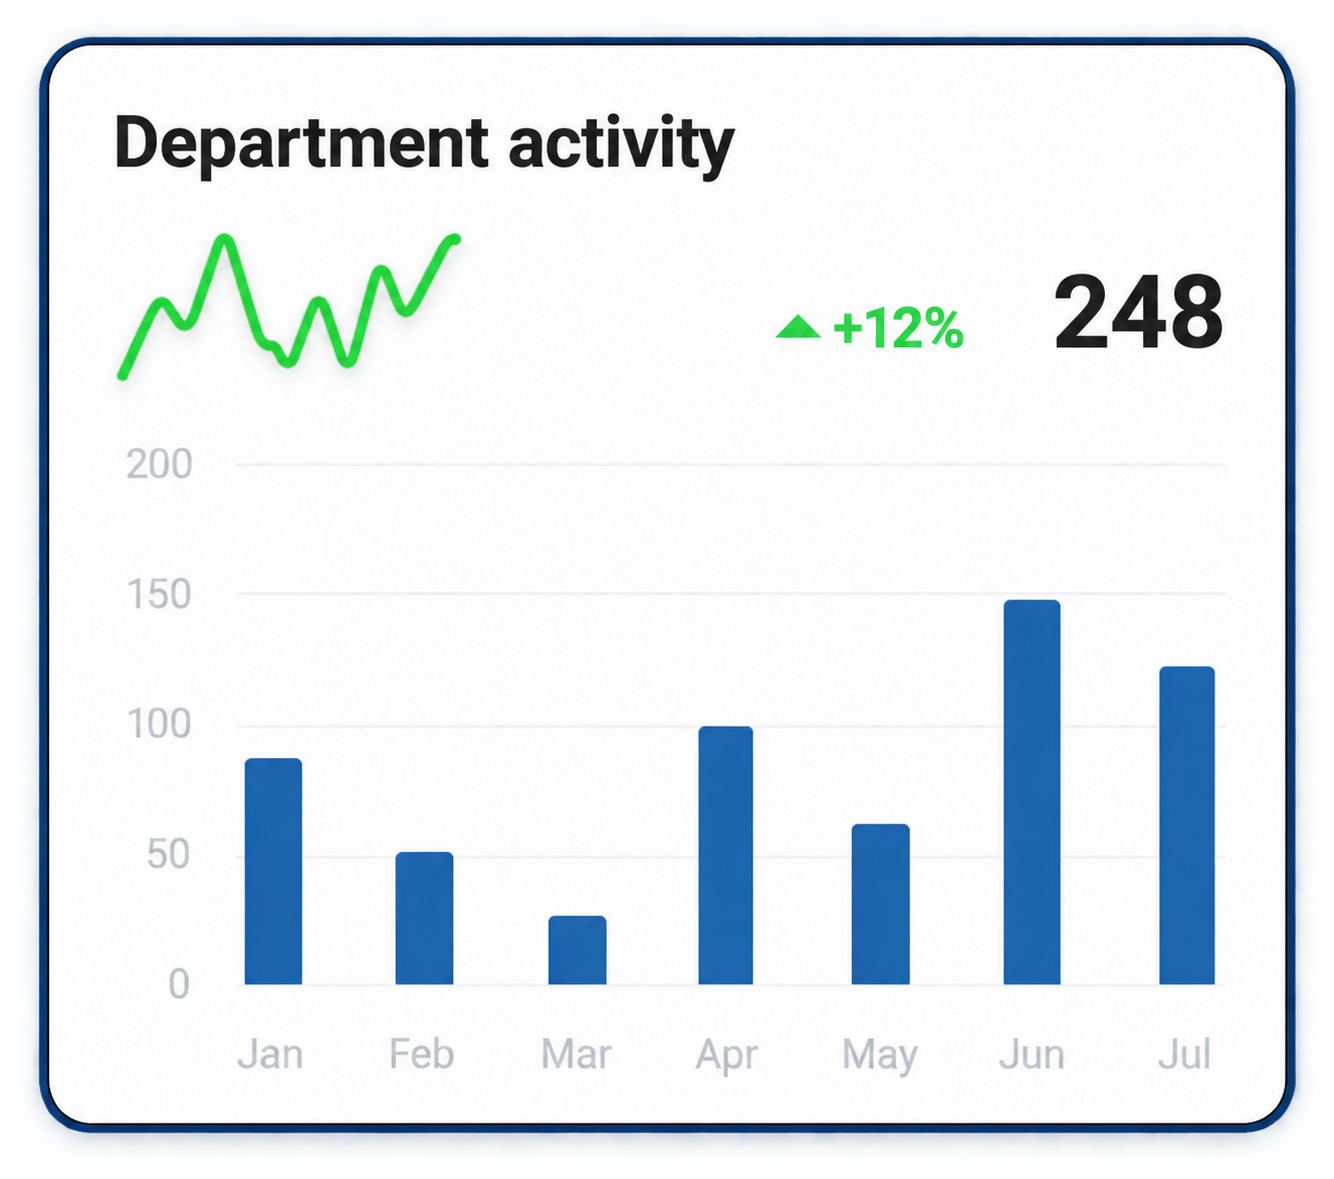
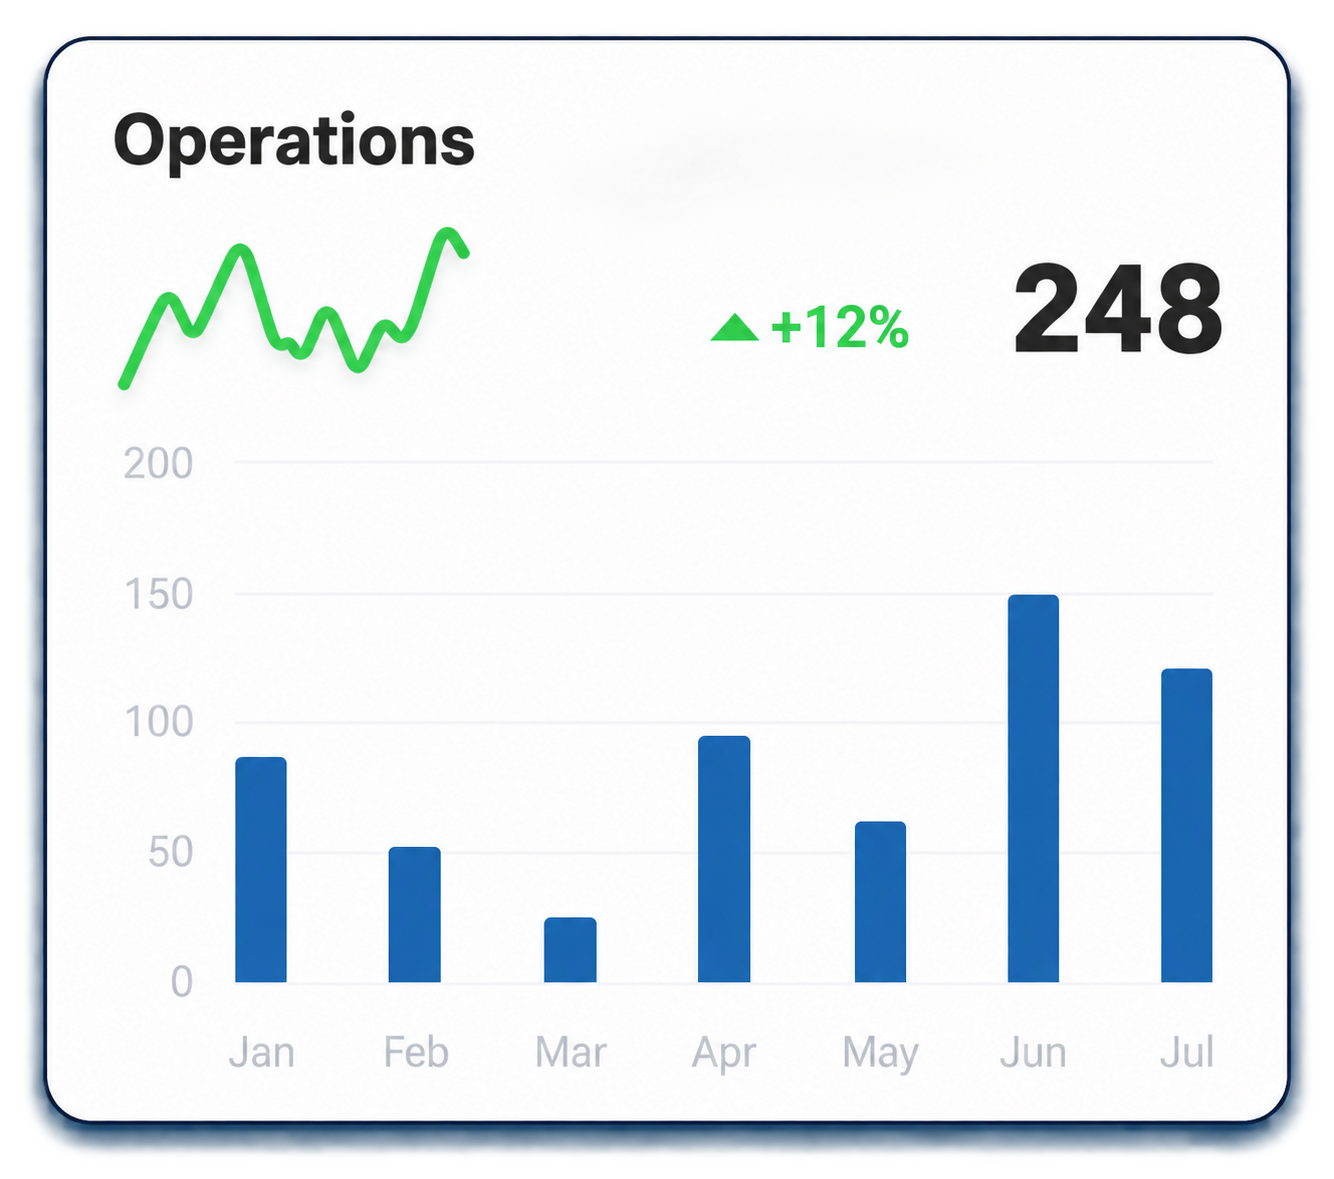
Revision

diff --git a/resources/views/new-system/auth/login.blade.php b/resources/views/new-system/auth/login.blade.php
@@ -132,19 +132,19 @@
                     description: 'Mantén la continuidad de cada módulo desde una plataforma confiable y centralizada.'
                 },
                 {
-                    image: @json(asset('images/login/erp-administracion.png')),
+                    image: @json(asset('images/login/erp-administracion.png').'?v='.filemtime(public_path('images/login/erp-administracion.png'))),
                     alt: 'Panel integral de administración empresarial',
                     title: 'Gestiona toda tu organización',
                     description: 'Centraliza empresas, usuarios, procesos y operaciones para tomar decisiones con información confiable.'
                 },
                 {
-                    image: @json(asset('images/login/erp-contabilidad.png')),
+                    image: @json(asset('images/login/erp-contabilidad.png').'?v='.filemtime(public_path('images/login/erp-contabilidad.png'))),
                     alt: 'Panel de contabilidad y control financiero',
                     title: 'Contabilidad y finanzas conectadas',
                     description: 'Controla presupuestos, cuentas, pagos y resultados financieros desde un entorno integrado.'
                 },
                 {
-                    image: @json(asset('images/login/erp-medicina.png')),
+                    image: @json(asset('images/login/erp-medicina.png').'?v='.filemtime(public_path('images/login/erp-medicina.png'))),
                     alt: 'Panel de gestión médica y hospitalaria',
                     title: 'Gestión médica integral',
                     description: 'Coordina pacientes, citas, atención clínica, laboratorio, farmacia e inventario médico.'

diff --git a/tests/Feature/ExampleTest.php b/tests/Feature/ExampleTest.php
@@ -27,6 +27,9 @@ class ExampleTest extends TestCase
             ->assertSee('Gestiona toda tu organización')
             ->assertSee('Contabilidad y finanzas conectadas')
             ->assertSee('Gestión médica integral')
+            ->assertSee('erp-administracion.png?v=', false)
+            ->assertSee('erp-contabilidad.png?v=', false)
+            ->assertSee('erp-medicina.png?v=', false)
             ->assertSee('action="'.route('new-system.login.store').'"', false)
             ->assertDontSee('Laravel 13');
 
